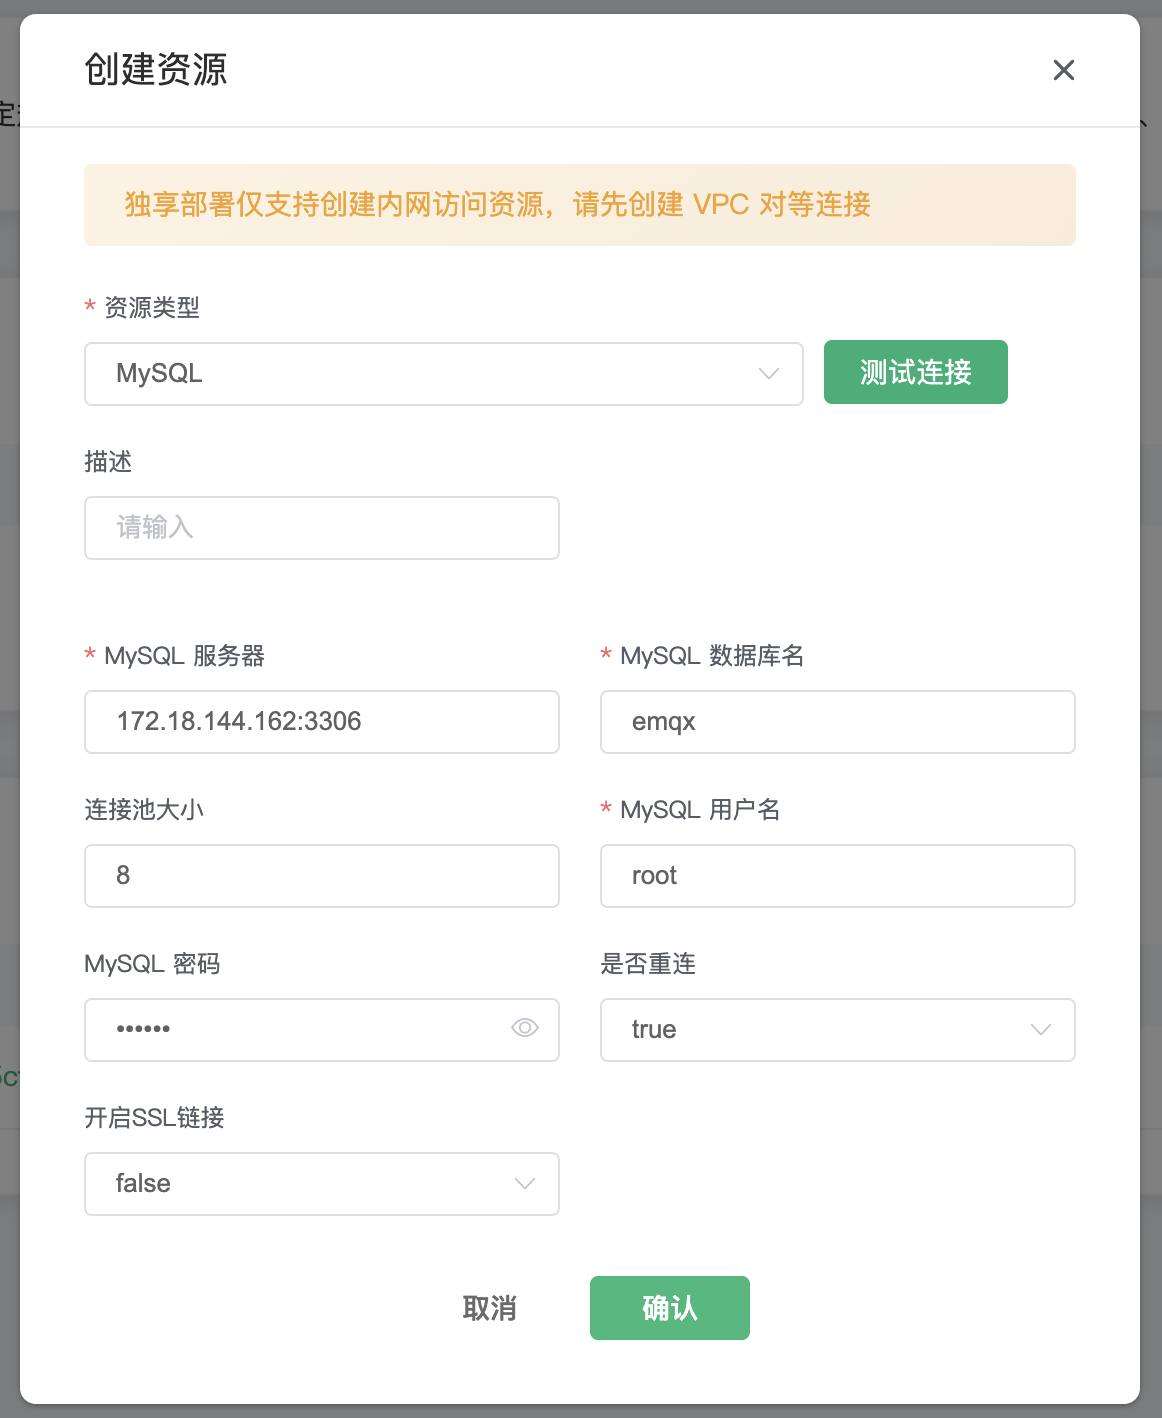
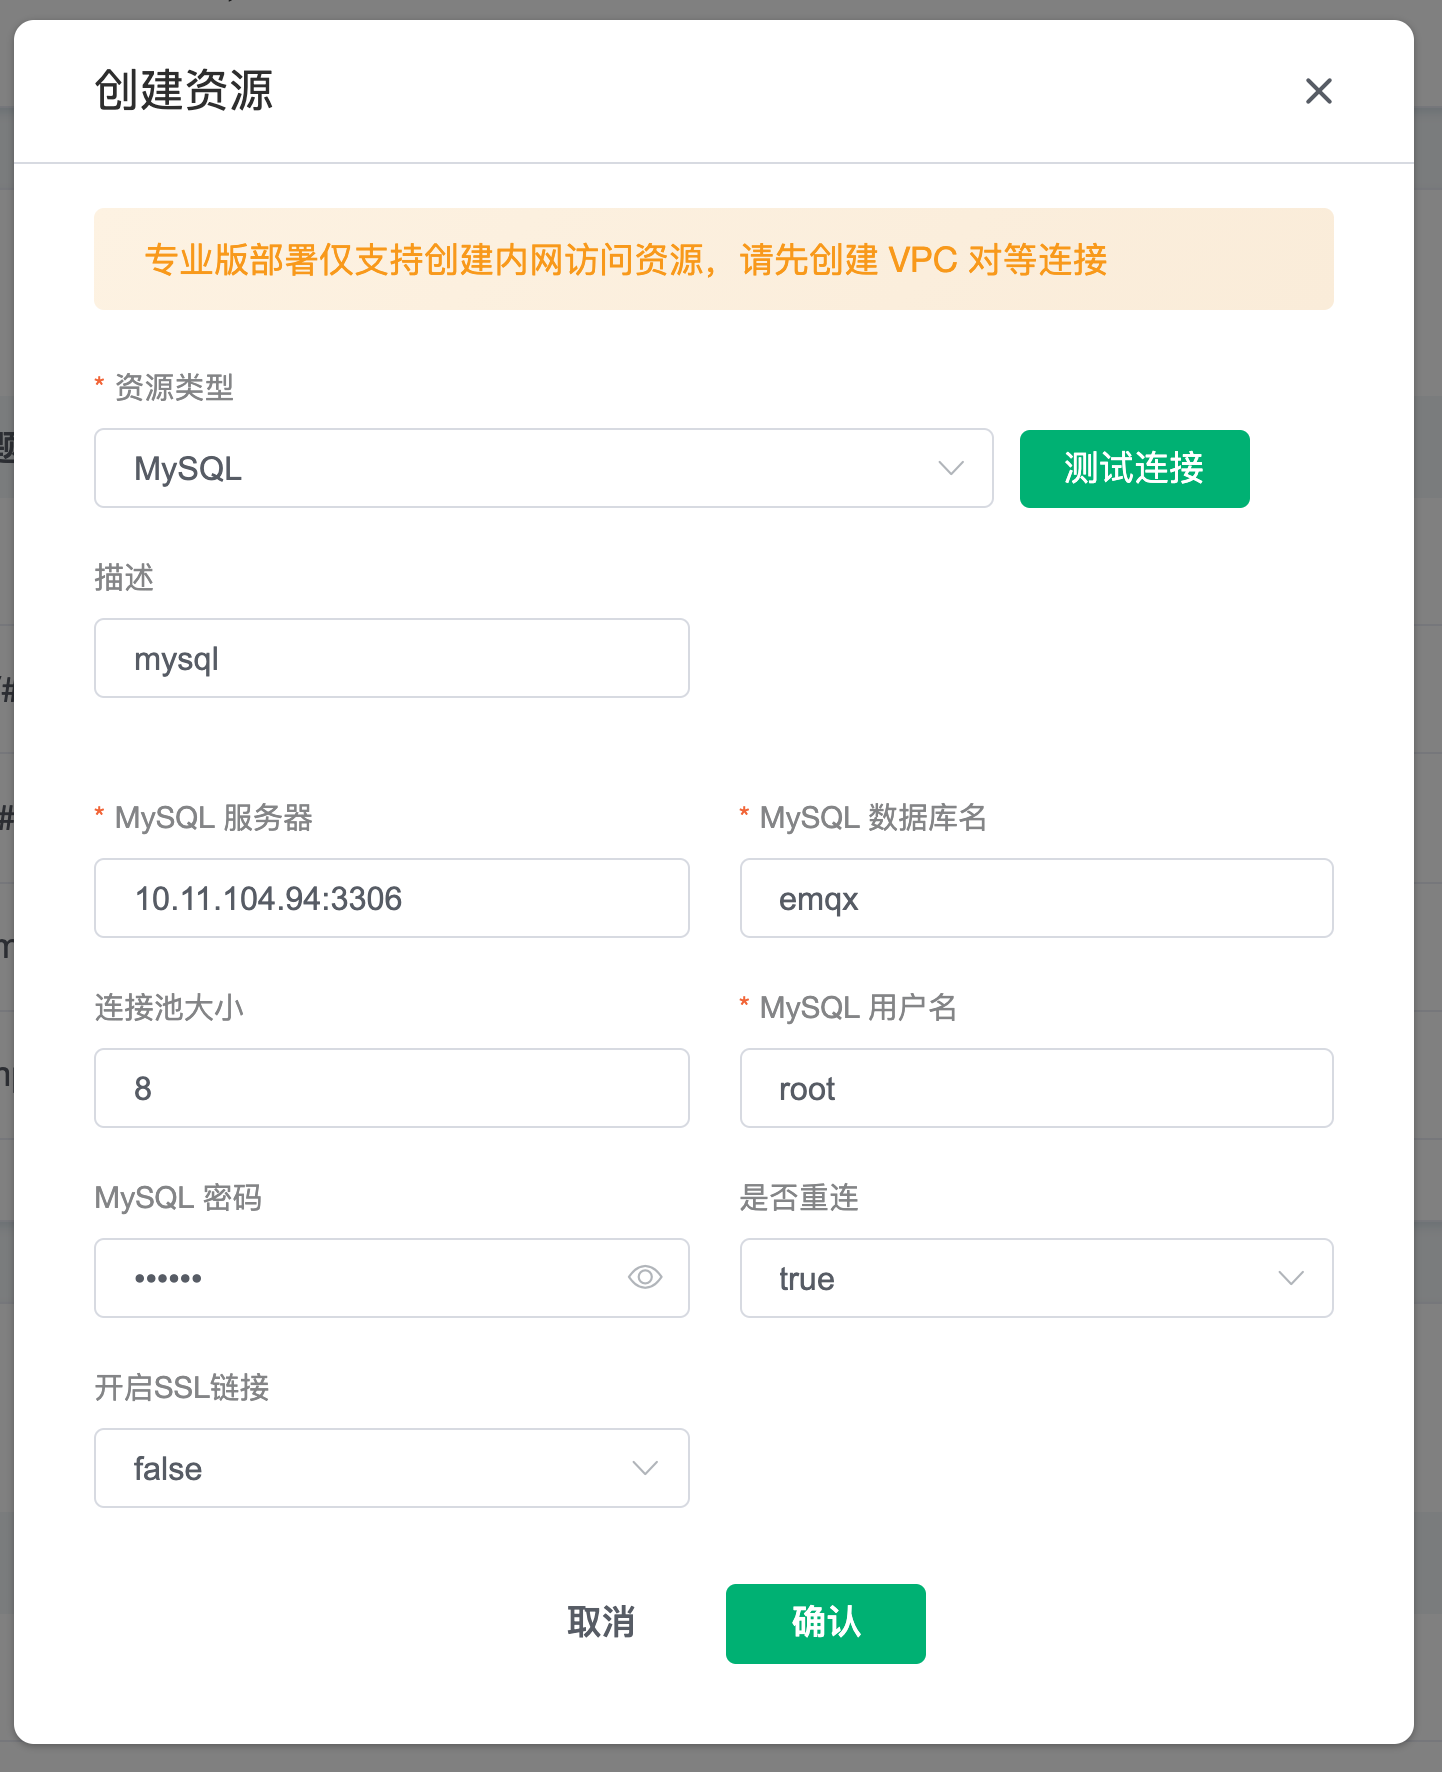
fix(rule_engine): fix docs of rule engine issues

diff --git a/en_US/rule_engine/rule_engine_save_mysql.md b/en_US/rule_engine/rule_engine_save_mysql.md
@@ -1,6 +1,6 @@
 # Save device data to MySQL using the Rule Engine
 
-In this article, we will simulate the temperature and humidity data, and report these data to EMQ X Cloud via the MQTT protocol and then we will use EMQ X Cloud rules engine to dump the data to MySQL.
+In this article, we will simulate the temperature and humidity data, and report these data to EMQ X Cloud via the MQTT protocol, and then we will use EMQ X Cloud rules engine to dump the data to MySQL.
 
 Before you start, you will need to complete the following:
 
@@ -20,11 +20,12 @@ Before you start, you will need to complete the following:
        --name mysql \
        -p 3306:3306 \
        -e MYSQL_ROOT_PASSWORD=public \
-       -d mysql/mysql-server:5.7
+       mysql/mysql-server:5.7
    ```
 2. Creating and Selecting a Database
 
-   ```mysql
+   ```bash
+   docker exec -it mysql mysql -uroot -ppublic
    CREATE DATABASE emqx;
    USE emqx;
    ```
@@ -45,7 +46,7 @@ Before you start, you will need to complete the following:
     ```
 
 4. For professional deployment, set up to allow EMQ X cluster IP segments to access the database (optional).
-     To obtain the deployment segments go to Deployment Details → View VPC Peering Connections Information to replicate the deployment VPC CIDR.
+     To get the deployment segments go to Deployment Details → View VPC Peering Connections Information to replicate the deployment VPC CIDR.
 
      ```mysql
        # Professional Deployment CIDR: 10.11.x.%
@@ -110,6 +111,14 @@ Go to Deployment Details and click on EMQ X Dashbaord to go to Dashbaord
 
    You need to replace broker.emqx.io with the deployment [connection address](../deployments/view_deployment.md) you have created and add the [client-side authentication information](../deployments/auth_and_acl.md) in the EMQ X Dashboard.
    ![MQTTX](./_assets/mqttx_publish.png)
+   - topic: `temp_hum/emqx`
+   - payload:
+     ```json
+     {
+        "temp": "20.1",
+        "hum": "57"
+     }
+     ```
 
 2. View data dump results
       ```sql

diff --git a/en_US/rule_engine/rule_engine_influxDB.md b/en_US/rule_engine/rule_engine_influxDB.md
@@ -12,7 +12,7 @@ In this guide, we will complete the creation of an InfluxDB rule engine to achie
 
 
 
-In order to achieve this function, we will complete the following 4 tasks:
+To achieve this function, we will complete the following 4 tasks:
 
 1. Install and initialize InfluxDB
 2. Set the filter conditions of the rule engine
@@ -29,13 +29,18 @@ For basic deployment users: There is no need to complete peering connection, and
 
 ## 1. Install and initialize InfluxDB
 
-First, we create an InfluxDB on our server. In order to quickly create InfluxDB, we use docker for quick installation, and open **8089** UDP port. The database name is **db**.
+First, we create an InfluxDB on our server. To quickly create InfluxDB, we use docker for quick installation, and open **8089** UDP port. The database name is **db**.
 
 ```shell
-$ docker pull influxdb
+$ docker pull influxdb:1.8
 $ git clone -b v1.0.0 https://github.com/palkan/influx_udp.git
 $ cd influx_udp
-$ docker run --name=influxdb --rm -d -p 8086:8086 -p 8089:8089/udp -v ${PWD}/files/influxdb.conf:/etc/influxdb/influxdb.conf:ro -e INFLUXDB_DB=db influxdb:latest
+$ docker run -d --name=influxdb \
+      -p 8086:8086 \
+      -p 8089:8089/udp \
+      -v ${PWD}/files/influxdb.conf:/etc/influxdb/influxdb.conf:ro \
+      -e INFLUXDB_DB=db \
+      influxdb:1.8
 ```
 
 
@@ -90,7 +95,7 @@ You can click **SQL Test** under the SQL input box to fill in the data:
   }
 }
 ```
-Click Test to view the obtained data results. If the settings are correct, the test output box should get the complete JSON data as follows:
+Click Test to view the get data results. If the settings are correct, the test output box should get the complete JSON data as follows:
 
 ```json
 {
@@ -169,7 +174,7 @@ On the rule engine page, click Monitor and you can see that the number of succes
 Open the server and view the data in InfluxDB.
 
 ```shell
-$ docker exec -it InfluxDB influx
+$ docker exec -it influxdb influx
 $ use db
 $ select * from "home_sensor"
 ```

diff --git a/zh_CN/rule_engine/rule_engine_save_mysql.md b/zh_CN/rule_engine/rule_engine_save_mysql.md
@@ -8,7 +8,7 @@
 
 在开始之前，您需要完成以下操作：
 * 已经在 EMQ X Cloud 上创建部署(EMQ X 集群)。
-* 对于独享部署用户：请先完成 [对等连接的创建](../deployments/vpc_peering.md)，下文提到的 IP 均指资源的内网 IP。
+* 对于专业版部署用户：请先完成 [对等连接的创建](../deployments/vpc_peering.md)，下文提到的 IP 均指资源的内网 IP。
 
 ## MySQL 配置
 
@@ -19,13 +19,15 @@
      --name mysql \
      -p 3306:3306 \
      -e MYSQL_ROOT_PASSWORD=public \
-     -d mysql/mysql-server:5.7
+     mysql/mysql-server:5.7
    ```
 
 2. 数据库创建
 
-   ```sql
+   ```bash
+   docker exec -it mysql mysql -uroot -ppublic
    CREATE DATABASE emqx;
+   USE emqx;
    ```
 
 
@@ -46,10 +48,10 @@
    ```
 
 4. 设置允许 EMQ X 集群 IP 段访问数据库(可选)
-   对于独享部署，获取部署网段可以前往部署详情 → 查看对等连接信息，复制部署 VPC 网段。
+   对于专业版部署，获取部署网段可以前往部署详情 → 查看对等连接信息，复制部署 VPC 网段。
    
    ```sql
-   # 独享部署
+   # 专业版
    GRANT ALL PRIVILEGES ON *.* TO root@'10.11.30.%' IDENTIFIED BY 'public' WITH GRANT OPTION;
    
    # 基础版
@@ -115,6 +117,14 @@
 1. 使用 [MQTT X](https://mqttx.app/) 模拟温湿度数据上报
 
    需要将 broker.emqx.io 替换成已创建的部署[连接地址](../deployments/view_deployment.md)，并添加[客户端认证信息](../deployments/auth_and_acl.md)。
+   - topic: `temp_hum/emqx`
+   - payload:
+     ```json
+     {
+        "temp": "20.1",
+        "hum": "57"
+     }
+     ```
 
    ![MQTTX](./_assets/mqttx_publish.png)
 

diff --git a/zh_CN/rule_engine/get_subs_from_mysql.md b/zh_CN/rule_engine/get_subs_from_mysql.md
@@ -8,7 +8,7 @@
 
 在开始之前，您需要完成以下操作：
 * 已经在 EMQ X Cloud 上创建部署(EMQ X 集群)。
-* 对于独享部署用户：请先完成 [对等连接的创建](../deployments/vpc_peering.md)，下文提到的 IP 均指资源的内网 IP。
+* 对于专业版部署用户：请先完成 [对等连接的创建](../deployments/vpc_peering.md)，下文提到的 IP 均指资源的内网 IP。
 
 ## MySQL 配置
 
@@ -19,13 +19,15 @@
      --name mysql \
      -p 3306:3306 \
      -e MYSQL_ROOT_PASSWORD=public \
-     -d mysql/mysql-server:5.7
+     mysql/mysql-server:5.7
    ```
 
 2. 数据库创建
 
-   ```sql
+   ```bash
+   docker exec -it mysql mysql -uroot -ppublic
    CREATE DATABASE emqx;
+   USE emqx;
    ```
 
 
@@ -52,10 +54,10 @@
    :::
 
 4. 设置允许 EMQ X 集群 IP 段访问数据库(可选)
-   对于独享部署，获取部署网段可以前往部署详情 → 查看对等连接信息，复制部署 VPC 网段。
+   对于专业版部署，获取部署网段可以前往部署详情 → 查看对等连接信息，复制部署 VPC 网段。
    
    ```sql
-   # 独享部署
+   # 专业版
    GRANT ALL PRIVILEGES ON *.* TO root@'10.11.30.%' IDENTIFIED BY 'public' WITH GRANT OPTION;
    
    # 基础版

diff --git a/en_US/rule_engine/rule_engine_offonline_to_redis.md b/en_US/rule_engine/rule_engine_offonline_to_redis.md
@@ -48,7 +48,7 @@ Go to Deployment Details and click on EMQ X Dashbaord to go to Dashbaord.
    Click on Add Action in the bottom left corner, drop down and select → Offline Message → Save Offline Message to Redis, select the resource created in the first step.
 
    ::: tip Tip
-   Here you need to plan for the Redis Key expiration time, and it is recommended that no more than 100 messages be saved offline
+   Here you need to plan for the Redis Key expiration time, and it is recommended to save no more than 100 messages offline
    :::
 
    ![create action](./_assets/offonline_redis_action.png)
@@ -75,7 +75,7 @@ Go to Deployment Details and click on EMQ X Dashbaord to go to Dashbaord.
 2. View data dump results
 
     ```bash
-    $ docker exec -it myredis bash
+    $ docker exec -it redis bash
     $ redis-cli
     $ keys *
     ```
@@ -90,7 +90,7 @@ Go to Deployment Details and click on EMQ X Dashbaord to go to Dashbaord.
 4. View the data consumed by redis
 
    ```bash
-   $ docker exec -it myredis bash
+   $ docker exec -it redis bash
    $ redis-cli
    $ keys *
    ```

diff --git a/zh_CN/rule_engine/rule_engine_offonline_to_redis.md b/zh_CN/rule_engine/rule_engine_offonline_to_redis.md
@@ -12,14 +12,14 @@
 
 在开始之前，您需要完成以下操作：
 * 已经在 EMQ X Cloud 上创建部署(EMQ X 集群)。
-* 对于独享部署用户：请先完成 [对等连接的创建](../deployments/vpc_peering.md)，下文提到的 IP 均指资源的内网 IP。
+* 对于专业版部署用户：请先完成 [对等连接的创建](../deployments/vpc_peering.md)，下文提到的 IP 均指资源的内网 IP。
 
 ## Redis 配置
 
 1. 安装 Redis
 
    ```bash
-   docker run -itd --name redis -p 6379:6379 redis
+   docker run -d --name redis -p 6379:6379 redis
    ```
 
 ## EMQ X Cloud 规则引擎配置
@@ -77,7 +77,7 @@
 2. 查看数据转存结果
 
     ```bash
-    $ docker exec -it myredis bash
+    $ docker exec -it redis bash
     $ redis-cli
     $ keys *
     ```
@@ -93,7 +93,7 @@
 4. 查看 redis 被消费的数据
 
    ```bash
-   $ docker exec -it myredis bash
+   $ docker exec -it redis bash
    $ redis-cli
    $ keys *
    ```

diff --git a/zh_CN/rule_engine/rule_engine_mqtt.md b/zh_CN/rule_engine/rule_engine_mqtt.md
@@ -19,7 +19,7 @@
 >
 >在使用规则引擎前，请先创建部署。
 >
->对于独享部署用户：请先完成[对等连接](../deployments/vpc_peering.md)，并确保以下涉及到的资源都建立在对等连接下的 VPC 中，下文提到的 IP 均指资源的内网 IP
+>对于专业版部署用户：请先完成[对等连接](../deployments/vpc_peering.md)，并确保以下涉及到的资源都建立在对等连接下的 VPC 中，下文提到的 IP 均指资源的内网 IP
 >
 >对于基础版用户：无需完成对等连接，下文提到的 IP 均指资源的公网 IP
 
@@ -29,7 +29,7 @@
 在你的云服务器中，创建一个 Mosquitto 服务。为了方便演示，这里使用 Docker 快速搭建。(请勿在生产环境中使用)
 
 ```shell
-sudo docker run -it -p 1883:1883 adek06/mqtt:mosquitto
+docker run -it -p 1883:1883 --name mosquitto eclipse-mosquitto:1.6
 ```
 
 之后，开放服务器的 1883 端口

diff --git a/zh_CN/rule_engine/rule_engine_kafka.md b/zh_CN/rule_engine/rule_engine_kafka.md
@@ -8,7 +8,7 @@
 
 在开始之前，您需要完成以下操作：
 * 已经在 EMQ X Cloud 上创建部署(EMQ X 集群)。
-* 对于独享部署用户：请先完成 [对等连接的创建](../deployments/vpc_peering.md)，下文提到的 IP 均指资源的内网 IP。
+* 对于专业版部署用户：请先完成 [对等连接的创建](../deployments/vpc_peering.md)，下文提到的 IP 均指资源的内网 IP。
 
 ## Kafka 配置
 
@@ -17,7 +17,9 @@
     ```bash
     # 安装 zookeeper
     docker run -d --restart=always \
-        --name zookeeper -p 2181:2181 zookeeper
+        --name zookeeper \
+        -p 2181:2181 \
+        zookeeper
 
     # 安装 Kafka，开放 9092 端口
     docker run -d  --restart=always --name mykafka \

diff --git a/en_US/rule_engine/rule_engine_save_psql.md b/en_US/rule_engine/rule_engine_save_psql.md
@@ -16,12 +16,18 @@ Before you start, you will need to complete the following:
 
 1. Install PostgreSQL 11
    ```bash
-   docker run -d --restart=always     --name postgres     -p 5432:5432     -e POSTGRES_PASSWORD=public     -e POSTGRES_USER=root     postgres:11
+   docker run -d --restart=always --name postgres \
+       -p 5432:5432 \
+       -e POSTGRES_PASSWORD=public \
+       -e POSTGRES_USER=root \
+       postgres:11
    ```
 
 2. New database
-   ```sql
+   ```bash
+   docker exec -it postgres psql
    CREATE database emqx;
+   \c emqx
    ```
 
 3. New temperature and humidity table

diff --git a/en_US/rule_engine/rule_engine_mqtt.md b/en_US/rule_engine/rule_engine_mqtt.md
@@ -27,7 +27,7 @@ For basic deployment users: There is no need to complete peering connection, and
 In your cloud server, create a mosquitto service. For the convenience of demonstration, we use docker to build quickly here. (Do not use it in production environment)
 
 ```shell
-sudo docker run -it -p 1883:1883 adek06/mqtt:mosquitto
+docker run -it -p 1883:1883 --name mosquitto eclipse-mosquitto:1.6
 ```
 
 After that, open the server's 1883 port

diff --git a/en_US/rule_engine/get_subs_from_mysql.md b/en_US/rule_engine/get_subs_from_mysql.md
@@ -16,13 +16,15 @@ Before you start, you need to complete the following operations:
      --name mysql \
      -p 3306:3306 \
      -e MYSQL_ROOT_PASSWORD=public \
-     -d mysql/mysql-server:5.7
+     mysql/mysql-server:5.7
    ```
 
 2. New database
 
-   ```sql
+   ```bash
+   docker exec -it mysql mysql -uroot -ppublic
    CREATE DATABASE emqx;
+   USE emqx;
    ```
 
 
